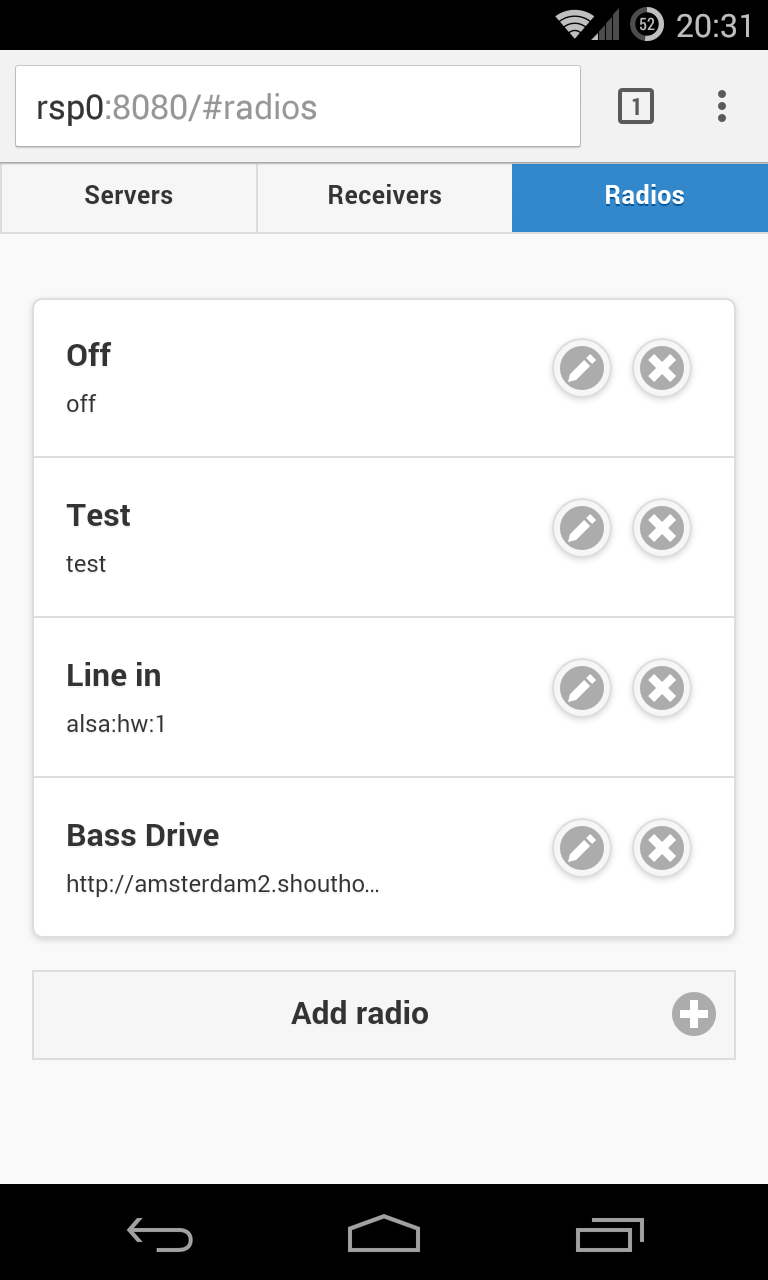
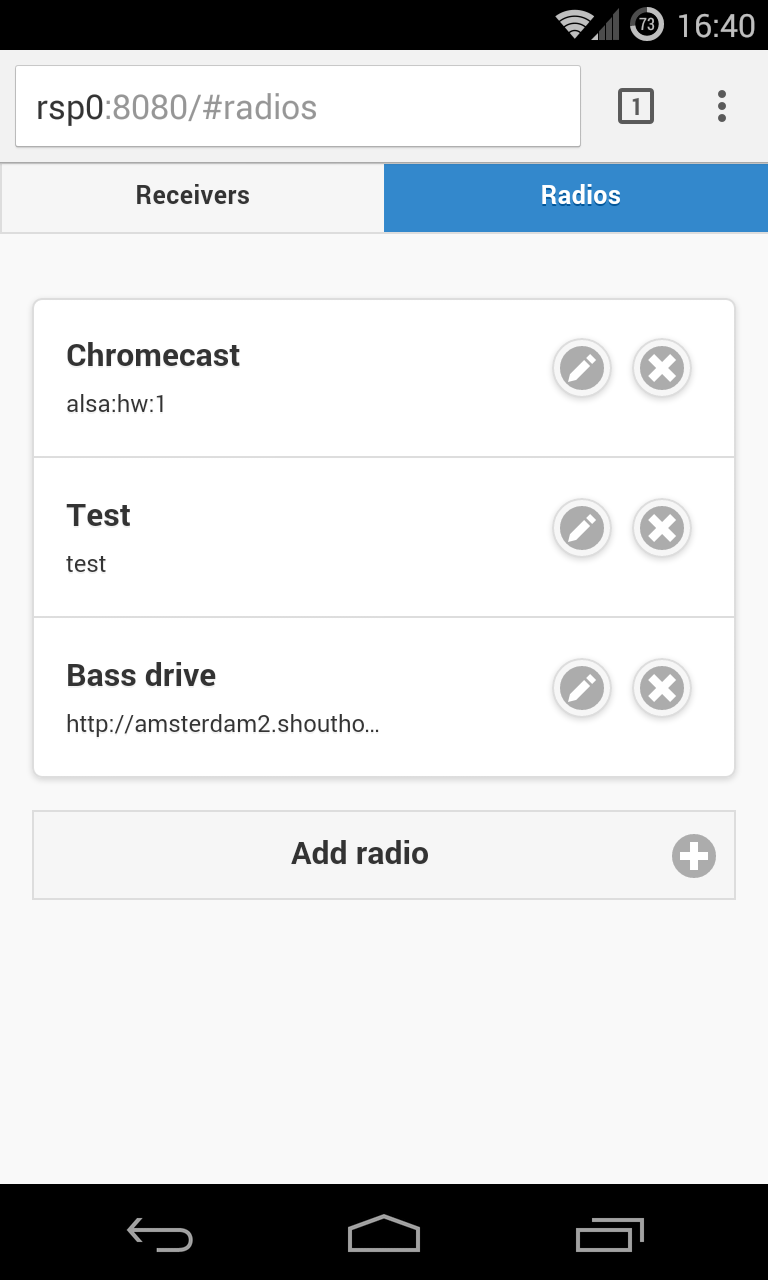
update readme, refs #6

diff --git a/README.md b/README.md
@@ -14,14 +14,14 @@ You'll need one config server.
 
 ## RTP sender
 
-The server encodes a web radio stream or line in into a opus+ogg stream and provides this compressed stream as a TCP server to the local network.
+The sender encodes a web radio stream or line in into a opus+ogg stream and provides this compressed stream as a TCP server to the local network.
 It's basically a thin layer around gstreamer.
 
-You'll need at least one sender.
+You can run a stand alone server on any device or let the RTP config server spawn them in the background.
 
 ## RTP receiver
 
-The sender is an even thinner layer around gstreamer.
+The receiver is an even thinner layer around gstreamer.
 It connects to one of the sender components to decode and play the compressed audio stream.
 
 You'll need at least one receiver.
@@ -44,7 +44,6 @@ The following URIs are available as radio stream:
 The RTP config server has a ub0r web UI.
 It's responsive designed and uses bleeding edge web techniques:
 
-![Servers][screen_server]
 ![Receivers][screen_receiver]
 ![Radios][screen_radios]
 

diff --git a/CHANGELOG.md b/CHANGELOG.md
@@ -1,7 +1,7 @@
 # 0.2.0 (unreleased)
 
-* use client side websockets (#10)
 * make server transparent to user (#6)
+* use client side websockets (#10)
 * [all issues](https://github.com/felixb/ub0r-streaming/issues?q=milestone%3Av0.2.0)
 
 
